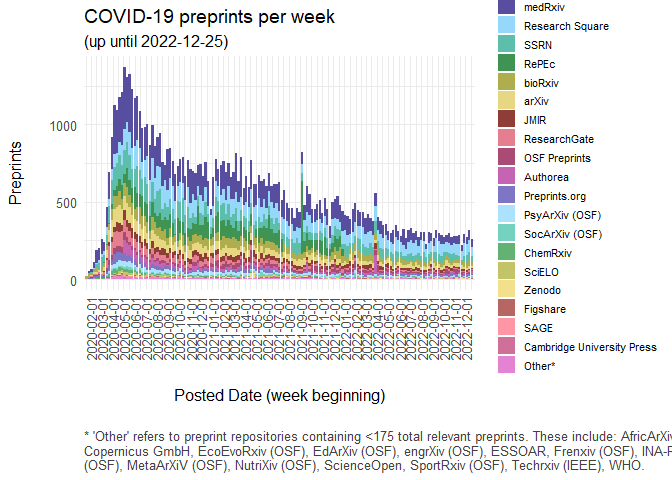
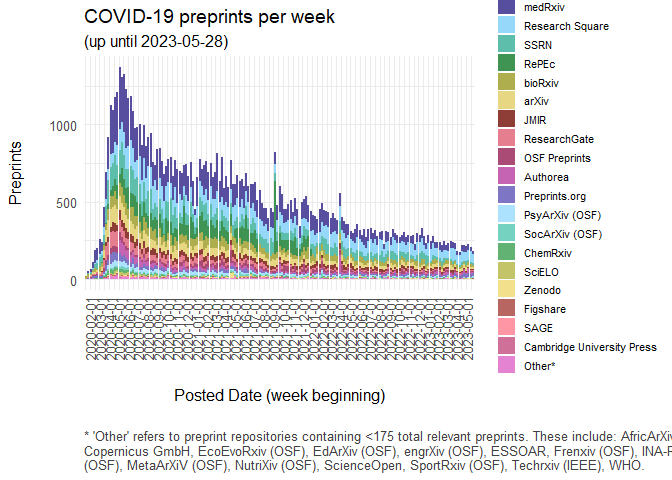
update 20230529 for preprints posted up until 20230528. Dataset (csv) will be posted separately to Figshare due to file size.

Changed region(s): [[0.125, 0.125, 0.7188, 0.5938], [0.125, 0.625, 0.7188, 0.75], [0.25, 0.0625, 0.3438, 0.0938]]

diff --git a/covid19_preprints.md b/covid19_preprints.md
@@ -45,7 +45,7 @@ Deduplicate final dataset to filter out records that are sampled twice.
 
 ``` r
 sample_date_until <- Sys.Date()
-#sample_data_until <- as.Date("2022-11-03")
+#sample_data_until <- as.Date("2023-04-30")
 
 posted_date_until <-floor_date(sample_date_until, "week") #set to last Sunday prior to sample date
 
@@ -341,7 +341,7 @@ purrr::map.
 ``` r
 ##specify years to include
 #dc_years <- c("2020", "2021", "2022")
-dc_years <- "2022" # for iterative update, only need to use 2022
+dc_years <- c("2023") # for iterative update, only need to use 2023 from next update onwards
 
 ###include (not: replace) query for types.resourceTypeGeneral:Preprint as per DataCite metadata schema 4.4
 dc_types <- c("types.resourceType:Preprint",
@@ -704,7 +704,8 @@ metadata <- list()
 metadata$release_date <- release_date
 metadata$sample_date <- sample_date_until
 metadata$posted_date <- posted_date_until
-metadata$url <- "https://github.com/nicholasmfraser/covid19_preprints/blob/master/data/covid19_preprints.csv?raw=true"
+metadata$url_data <- "https://doi.org/10.6084/m9.figshare.22707346"
+metadata$url_repository <- "https://github.com/nicholasmfraser/covid19_preprints"
 
 # Save as json file
 metadata_json <- toJSON(metadata, pretty = TRUE, auto_unbox = TRUE)
